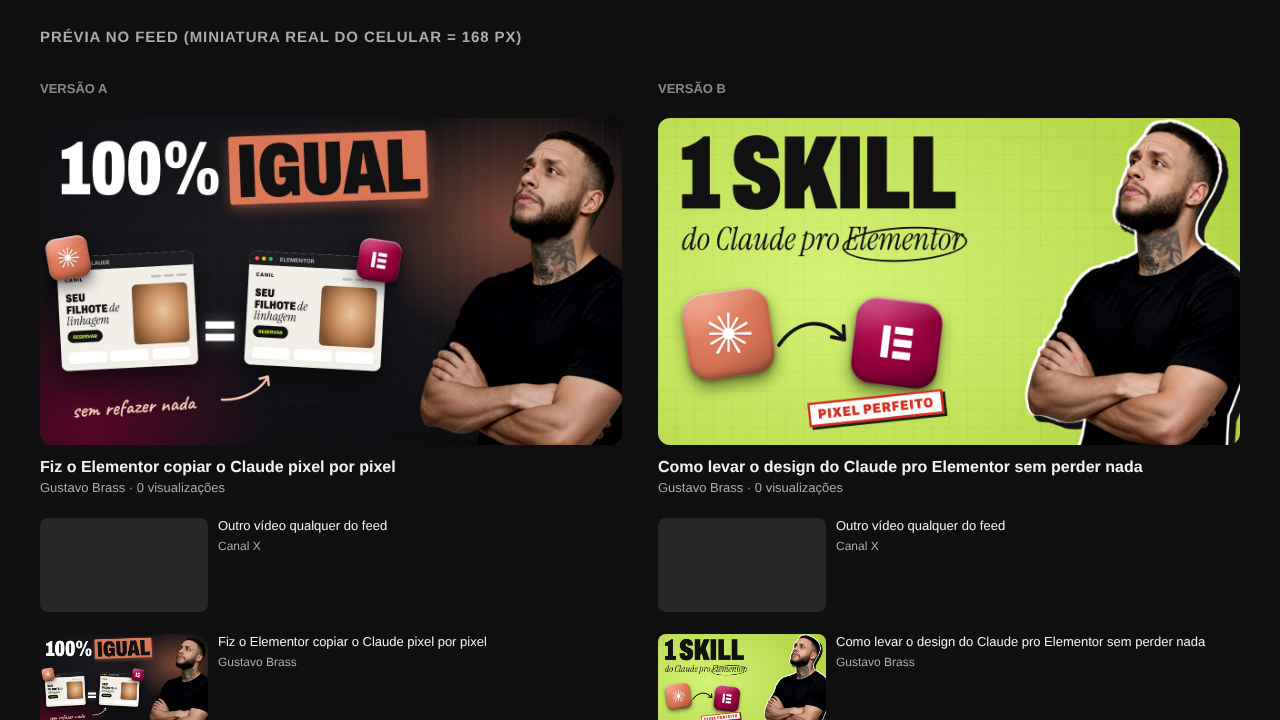
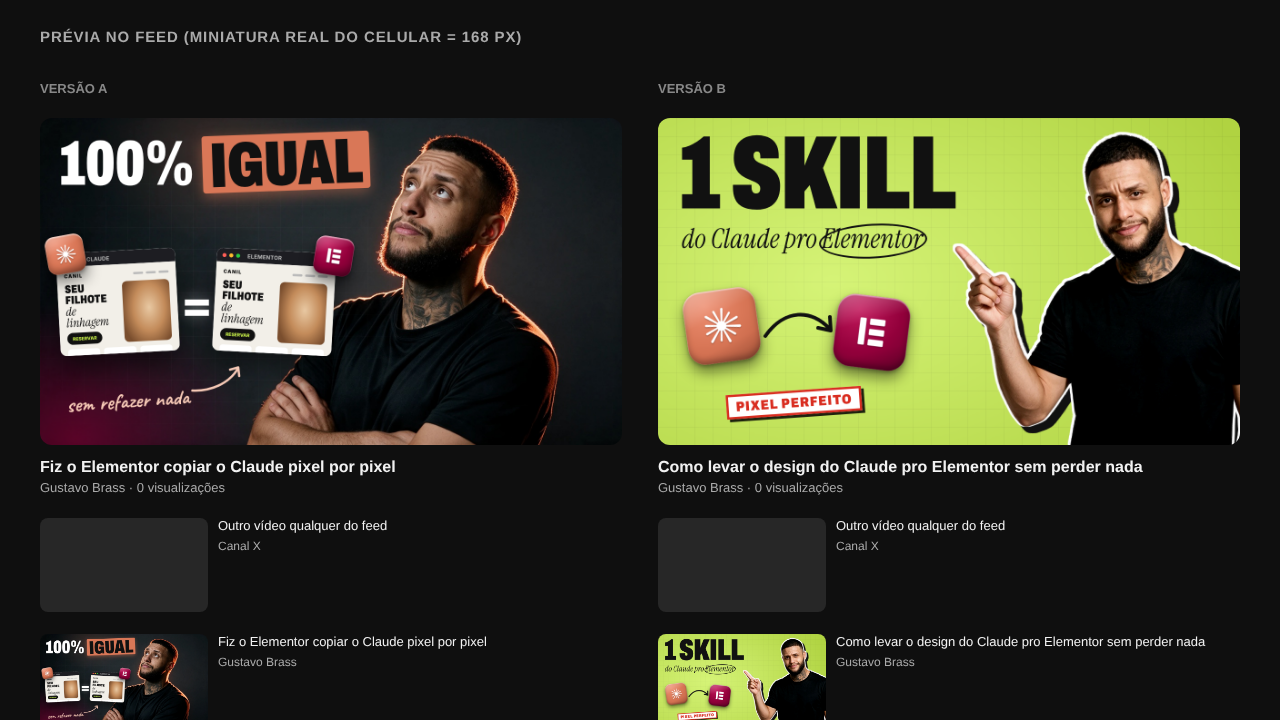
Teste 01 v2: capas com fotos do personagem gustav3 (Magnific)
Claude-Session: https://claude.ai/code/session_01Aans8n4CX1hxuNjUjYr9zS

diff --git a/thumbnails/teste-01/A.html b/thumbnails/teste-01/A.html
@@ -1,41 +1,38 @@
 <!doctype html><html><head><meta charset="utf-8"><link rel="stylesheet" href="shared.css">
 <style>
-.bg{position:absolute;inset:0;background:
-  radial-gradient(38% 55% at 82% 32%,rgba(217,119,87,.55) 0%,rgba(217,119,87,0) 70%),
-  radial-gradient(45% 60% at 8% 95%,rgba(146,0,59,.55) 0%,rgba(146,0,59,0) 70%),
-  radial-gradient(70% 80% at 40% 40%,#1c1b20 0%,#0b0b0e 100%)}
-.grid{position:absolute;inset:0;background-image:linear-gradient(rgba(255,255,255,.045) 1px,transparent 1px),linear-gradient(90deg,rgba(255,255,255,.045) 1px,transparent 1px);background-size:48px 48px;-webkit-mask:radial-gradient(70% 70% at 35% 55%,#000 30%,transparent 80%)}
+.bg{position:absolute;inset:0;background:url(assets/fundo-A.jpg) center/cover}
+.glow{position:absolute;inset:0;background:radial-gradient(45% 60% at 6% 98%,rgba(146,0,59,.6) 0%,rgba(146,0,59,0) 70%),radial-gradient(30% 40% at 30% 10%,rgba(217,119,87,.18) 0%,rgba(217,119,87,0) 70%)}
+.grid{position:absolute;inset:0;background-image:linear-gradient(rgba(255,255,255,.045) 1px,transparent 1px),linear-gradient(90deg,rgba(255,255,255,.045) 1px,transparent 1px);background-size:48px 48px;-webkit-mask:radial-gradient(55% 75% at 28% 55%,#000 25%,transparent 75%)}
 .panels{position:absolute;right:0;top:0;width:520px;height:100%;background:repeating-linear-gradient(90deg,rgba(255,255,255,.035) 0 2px,transparent 2px 34px);-webkit-mask:linear-gradient(90deg,transparent,#000 40%)}
-.title{left:42px;top:34px;font-family:"Archivo";font-weight:900;font-stretch:68%;font-size:168px;line-height:.86;color:#fff;letter-spacing:-.01em;text-transform:uppercase;display:flex;gap:18px;align-items:flex-end}
+.title{left:42px;top:34px;font-family:"Archivo";font-weight:900;font-stretch:68%;font-size:140px;line-height:.86;color:#fff;letter-spacing:-.01em;text-transform:uppercase;display:flex;gap:18px;align-items:flex-end}
 .title .hl{background:#D97757;color:#111;padding:6px 16px 0;border-radius:6px;transform:rotate(-2deg);box-shadow:0 10px 30px rgba(217,119,87,.45)}
-.eq{left:356px;top:396px;font:900 120px "Archivo";color:#fff;text-shadow:0 0 30px rgba(255,255,255,.35)}
-.note{left:70px;top:612px;font-size:46px;color:#F6C9B6;transform:rotate(-4deg)}
-.arrow{left:395px;top:560px}
+.eq{left:312px;top:356px;font:900 100px "Archivo";color:#fff;text-shadow:0 0 30px rgba(255,255,255,.35)}
+.note{left:58px;top:600px;font-size:46px;color:#F6C9B6;transform:rotate(-4deg)}
+.arrow{left:330px;top:540px}
 .person{height:770px;right:-70px;top:22px}
 .person .back{position:absolute;inset:-4%;-webkit-mask:url(assets/voce-cetico.png) center/92% 92% no-repeat;background:#D97757;filter:blur(38px);opacity:.75;transform:translate(30px,-10px)}
 .person .rim{background:#FFB08F;transform:translate(7px,-3px);filter:blur(3px);opacity:.95}
 .person .tint{background:linear-gradient(90deg,rgba(10,6,20,.55) 0%,rgba(10,6,20,.15) 45%,rgba(217,119,87,.25) 100%);mix-blend-mode:multiply}
 .person img.photo{filter:contrast(1.12) brightness(.92) saturate(1.05)}
 </style></head><body><div class="thumb">
-<div class="bg"></div><div class="grid"></div><div class="panels"></div>
+<div class="bg"></div><div class="glow"></div><div class="grid"></div>
 
-<div class="win" style="left:42px;top:300px;width:300px;height:250px;transform:rotate(-3deg)">
+<div class="win" style="left:40px;top:292px;width:262px;height:226px;transform:rotate(-3deg)">
   <div class="bar"><i></i><i></i><i></i><span>CLAUDE</span></div>
   <div class="lp"><div class="nav"><b>CANIL</b><span><i></i><i></i><i></i></span></div>
   <div class="hero"><div><h3>Seu filhote <em>de linhagem</em></h3><span class="btn">RESERVAR</span></div><div class="img"></div></div>
   <div class="cards"><i></i><i></i><i></i></div></div>
 </div>
-<div class="win" style="left:455px;top:300px;width:300px;height:250px;transform:rotate(3deg)">
+<div class="win" style="left:384px;top:292px;width:262px;height:226px;transform:rotate(3deg)">
   <div class="bar"><i></i><i></i><i></i><span>ELEMENTOR</span></div>
   <div class="lp"><div class="nav"><b>CANIL</b><span><i></i><i></i><i></i></span></div>
   <div class="hero"><div><h3>Seu filhote <em>de linhagem</em></h3><span class="btn">RESERVAR</span></div><div class="img"></div></div>
   <div class="cards"><i></i><i></i><i></i></div></div>
 </div>
 <div class="abs eq">=</div>
-<div class="icon3d ic-claude" style="left:16px;top:262px;width:92px;height:92px;transform:rotate(-10deg)"><svg class="sb"></svg></div>
-<div class="icon3d ic-elementor" style="left:700px;top:268px;width:92px;height:92px;transform:rotate(9deg)"><svg class="el"></svg></div>
+<div class="icon3d ic-claude" style="left:14px;top:258px;width:84px;height:84px;transform:rotate(-10deg)"><svg class="sb"></svg></div>
+<div class="icon3d ic-elementor" style="left:604px;top:262px;width:84px;height:84px;transform:rotate(9deg)"><svg class="el"></svg></div>
 
-<div class="person"><div class="back"></div><div class="rim"></div><img class="photo" src="assets/voce-cetico.png"><div class="tint"></div></div>
 
 <div class="abs title"><span>100%</span><span class="hl">IGUAL</span></div>
 <div class="abs hand note">sem refazer nada</div>

diff --git a/thumbnails/teste-01/B.html b/thumbnails/teste-01/B.html
@@ -4,20 +4,20 @@
 .grid{position:absolute;inset:0;background-image:linear-gradient(rgba(0,0,0,.07) 1px,transparent 1px),linear-gradient(90deg,rgba(0,0,0,.07) 1px,transparent 1px);background-size:40px 40px}
 .vig{position:absolute;inset:0;background:radial-gradient(80% 90% at 30% 50%,rgba(255,255,255,.25),rgba(0,0,0,.12))}
 .big{left:46px;top:28px;font-family:"Archivo";font-weight:900;font-stretch:66%;font-size:230px;line-height:.82;color:#111;text-transform:uppercase;letter-spacing:-.015em}
-.serif{left:52px;top:232px;font-family:"Instrument Serif";font-style:italic;font-size:70px;color:#111;line-height:1}
+.serif{left:52px;top:236px;font-family:"Instrument Serif";font-style:italic;font-size:60px;color:#111;line-height:1}
 .serif u{text-decoration:none;position:relative}
 .serif u::after{content:"";position:absolute;left:-6px;right:-10px;bottom:-4px;height:68px;border:4px solid #111;border-radius:50%;transform:rotate(-3deg)}
-.person{height:760px;right:-40px;top:6px;filter:drop-shadow(0 0 0 #fff) drop-shadow(5px 0 0 #fff) drop-shadow(-5px 0 0 #fff) drop-shadow(0 -5px 0 #fff) drop-shadow(14px 14px 0 #111)}
+.person{height:690px;width:725px;right:-96px;top:34px;filter:drop-shadow(0 0 0 #fff) drop-shadow(5px 0 0 #fff) drop-shadow(-5px 0 0 #fff) drop-shadow(0 -5px 0 #fff) drop-shadow(14px 14px 0 #111)}
 .person img{filter:contrast(1.08) saturate(1.05)}
-.flowarrow{left:258px;top:430px}
+.flowarrow{left:228px;top:410px}
 .note{left:250px;top:575px;font-size:44px;color:#111;transform:rotate(-5deg)}
 </style></head><body><div class="thumb">
 <div class="bg"></div><div class="grid"></div><div class="vig"></div>
 <div class="abs big">1 SKILL</div>
 <div class="abs serif">do Claude pro <u>Elementor</u></div>
-<div class="icon3d ic-claude" style="left:60px;top:380px;width:190px;height:190px;transform:rotate(-8deg)"><svg class="sb"></svg></div>
+<div class="icon3d ic-claude" style="left:60px;top:378px;width:160px;height:160px;transform:rotate(-8deg)"><svg class="sb"></svg></div>
 <svg class="abs flowarrow" width="170" height="110" viewBox="0 0 170 110"><path d="M8 70 C 50 10, 110 10, 150 55" stroke="#111" stroke-width="8" fill="none" stroke-linecap="round"/><path d="M124 52 L152 58 L150 28" stroke="#111" stroke-width="8" fill="none" stroke-linecap="round" stroke-linejoin="round"/></svg>
-<div class="icon3d ic-elementor" style="left:430px;top:400px;width:190px;height:190px;transform:rotate(7deg)"><svg class="el"></svg></div>
-<div class="stamp" style="left:330px;top:612px;transform:rotate(-6deg)">PIXEL PERFEITO</div>
-<div class="person"><img src="assets/voce-cetico.png"></div>
+<div class="icon3d ic-elementor" style="left:390px;top:392px;width:160px;height:160px;transform:rotate(7deg)"><svg class="el"></svg></div>
+<div class="stamp" style="left:150px;top:600px;transform:rotate(-4deg)">PIXEL PERFEITO</div>
+<div class="person"><img src="assets/voce-apontando.png"></div>
 </div><script src="icons.js"></script></body></html>
